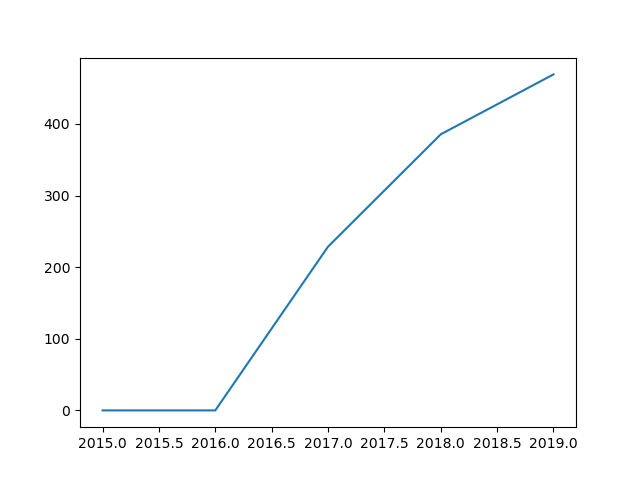
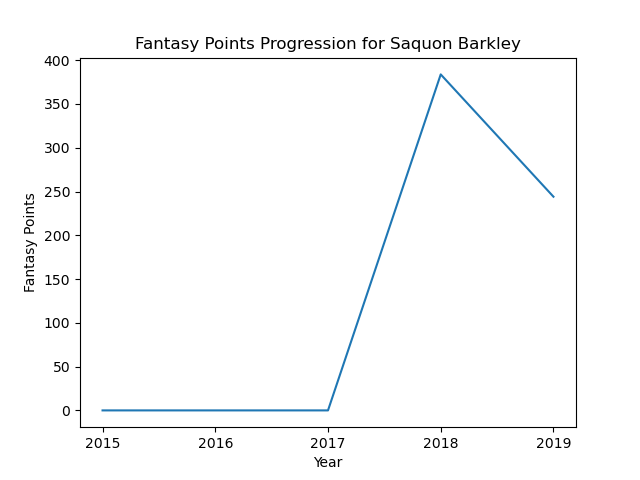
progress on integrating images in page

diff --git a/src/Player.js b/src/Player.js
@@ -6,72 +6,82 @@ function Player(props) {
       <div className = 'row'>
         <p className = 'font-weight-bold'>Clerical Info</p>
       </div>
-      <div className = 'row'>
-        <p>Name: {props.state.player.name}</p>
-      </div>
-      <div className = 'row'>
-        <p>Position: {props.state.player.pos}</p>
-      </div>
-      <div className = 'row'>
-        <p>Age: {props.state.player.age}</p>
-        </div>
       <div className = 'row mb-2'>
-        <p>Team: {props.state.player.team}</p>
+        <div className = 'col'>
+          <p>Name: {props.state.player.name}</p>
+        </div>
+        <div className = 'col'>
+          <p>Position: {props.state.player.pos}</p>
+        </div>
+        <div className = 'col'>
+          <p>Age: {props.state.player.age}</p>
+          </div>
+        <div className = 'col'>
+          <p>Team: {props.state.player.team}</p>
+        </div>
       </div>
 
       <div className = 'row'>
         <p className = 'font-weight-bold'>Game Stats (2019)</p>
       </div>
-      <div className = 'row'>
-        <p>Fantasy Points: {props.state.player.fp}</p>
-      </div>
-      <div className = 'row'>
-        <p>Games: {props.state.player.g}</p>
-      </div>
       <div className = 'row mb-2'>
-        <p>Games Started: {props.state.player.gs}</p>
+        <div className = 'col'>
+          <p>Fantasy Points: {props.state.player.fp}</p>
+        </div>
+        <div className = 'col'>
+          <p>Games: {props.state.player.g}</p>
+        </div>
+        <div className = 'col'>
+          <p>Games Started: {props.state.player.gs}</p>
+        </div>
       </div>
 
       <div className = 'row'>
         <p className = 'font-weight-bold'>Passing Info (2019)</p>
       </div>
-      <div className = 'row'>
-        <p>Passing Atts: {props.state.player.p_att}</p>
-      </div>
-      <div className = 'row'>
-        <p>Passing Yds: {props.state.player.p_yd}</p>
-      </div>
       <div className = 'row mb-2'>
-        <p>Passing TDs: {props.state.player.p_td}</p>
+        <div className = 'col'>
+          <p>Passing Atts: {props.state.player.p_att}</p>
+        </div>
+        <div className = 'col'>
+          <p>Passing Yds: {props.state.player.p_yd}</p>
+        </div>
+        <div className = 'col'>
+          <p>Passing TDs: {props.state.player.p_td}</p>
+        </div>
       </div>
 
       <div className = 'row'>
         <p className = 'font-weight-bold'>Rushing Info (2019)</p>
       </div>
-      <div className = 'row'>
-        <p>Rushing Att: {props.state.player.ru_att}</p>
-      </div>
-      <div className = 'row'>
-        <p>Rushing Yds: {props.state.player.ru_yd}</p>
-      </div>
       <div className = 'row mb-2'>
-        <p>Rushing TDs: {props.state.player.ru_td}</p>
+        <div className = 'col'>
+          <p>Rushing Att: {props.state.player.ru_att}</p>
+        </div>
+        <div className = 'col'>
+          <p>Rushing Yds: {props.state.player.ru_yd}</p>
+        </div>
+        <div className = 'col'>
+          <p>Rushing TDs: {props.state.player.ru_td}</p>
+        </div>
       </div>
 
       <div className = 'row'>
         <p className = 'font-weight-bold'>Receiving Info (2019)</p>
       </div>
-      <div className = 'row'>
-        <p>Receptions: {props.state.player.rec}</p>
-      </div>
-      <div className = 'row'>
-        <p>Targets: {props.state.player.tgt}</p>
-      </div>
-      <div className = 'row'>
-        <p>Receiving Yds: {props.state.player.re_yd}</p>
-      </div>
-      <div className = 'row'>
-        <p>Receiving TDs: {props.state.player.re_td}</p>
+      <div className = 'row mb-2'>
+        <div className = 'col'>
+          <p>Receptions: {props.state.player.rec}</p>
+        </div>
+        <div className = 'col'>
+          <p>Targets: {props.state.player.tgt}</p>
+        </div>
+        <div className = 'col'>
+          <p>Receiving Yds: {props.state.player.re_yd}</p>
+        </div>
+        <div className = 'col'>
+          <p>Receiving TDs: {props.state.player.re_td}</p>
+        </div>
       </div>
     </div>
   );

diff --git a/src/Images.js b/src/Images.js
@@ -1,0 +1,32 @@
+import React from 'react';
+//import Graph_One from './media/compplayer.png';
+//import Graph_Two from './media/playerptprog.png';
+//import Graph_Three from './media/playerptprog.png';
+
+class Images extends React.Component {
+    render() {
+        var graph_one = require('./media/compplayer.png');
+        var graph_two = require('./media/playerptprog.png');
+        var graph_three = require('./media/playerptprog.png');
+
+        return (
+            <div>
+                <div className = 'container'>
+                    <div className = 'row'>
+                            <div className = 'col-md-4'>
+                                <img class = 'img-fluid' src = {graph_one} alt = 'graph one'></img>
+                            </div>
+                            <div className = 'col-md-4'>
+                                <img class = 'img-fluid' src = {graph_two} alt = 'graph two'></img>
+                            </div>
+                            <div className = 'col-md-4'>
+                                <img class = 'img-fluid' src = {graph_three} alt = 'graph three'></img>
+                            </div>
+                    </div>
+                </div>
+            </div>
+        );
+    }
+}
+
+export default Images;

diff --git a/src/App.js b/src/App.js
@@ -5,12 +5,17 @@ import 'bootstrap/dist/css/bootstrap.min.css';
 import Button from './Button.js';
 import Dropdown from './Dropdown.js'
 import Player from './Player.js';
+import Images from './Images.js';
 
 class App extends React.Component {
   constructor(props) {
     super(props);
 
     this.state = {
+      image_one: null,
+      image_two: null,
+      image_three: null,
+      button_pressed: false,
       selected: null,
       player: {
         name: null,
@@ -73,6 +78,7 @@ class App extends React.Component {
         const n_re_td = response.data.ReceivingTD;
 
         this.setState({
+          //button_pressed: true,
           player: {
             name: n_name,
             pos: n_pos,
@@ -102,7 +108,7 @@ class App extends React.Component {
   }
 
   render() {
-    return(
+    return (
       <div className = "container">
         <div className = "row">
           <div className = "col"></div>
@@ -129,7 +135,11 @@ class App extends React.Component {
             state = {this.state}
           />
         </div>
-
+        <div className = "row mb-2">
+          <Images 
+            state = {this.state}
+          />
+        </div>
       </div>
     );
   }

diff --git a/api/scripts.py b/api/scripts.py
@@ -1,4 +1,8 @@
+import matplotlib
+matplotlib.use('Agg')
+
 import matplotlib.pyplot as plt
+import matplotlib.ticker as mticker
 import pandas as pd
 import json
 
@@ -31,13 +35,30 @@ def player_point_progression(name):
     y = [fp_2015, fp_2016, fp_2017, fp_2018, fp_2019]
 
     plt.plot(x, y)
+    plt.xticks(range(2015, 2020))
+    plt.title('Fantasy Points Progression for ' + name)
+    plt.xlabel('Year')
+    plt.ylabel('Fantasy Points')
 
-    plt.savefig('playerptprog.png')
+    plt.savefig('./../src/media/playerptprog.png')
 
-    print(fp_2019)
-    print(fp_2018)
-    print(fp_2017)
-    print(fp_2016)
-    print(fp_2015)
+    plt.close()
 
-player_point_progression('Christian McCaffrey')
+def compare_player_position(name):
+    players_2019 = pd.read_json('2019.json')
+    position = fp_2019 = (players_2019.loc[players_2019['Player'] == name])['Pos'].values[0]
+
+    for i,j in players_2019.iterrows():
+        if(j['Pos'] == position):
+            att_tgt = j['Tgt'] + j['PassingAtt'] + j['RushingAtt']
+            #x.append(att_tgt)
+            #y.append(j['FantasyPoints'])
+            plt.scatter(att_tgt, j['FantasyPoints'], color = 'blue')
+            if(j['Player'] == name):
+                plt.scatter(att_tgt, j['FantasyPoints'], color = 'yellow')
+            else:
+                plt.scatter(att_tgt, j['FantasyPoints'], color = 'blue')
+
+    plt.savefig('./../src/media/compplayer.png')
+
+    plt.close()

diff --git a/api/api.py b/api/api.py
@@ -2,6 +2,7 @@ import flask
 import json
 from flask import request, jsonify, abort
 from flask_cors import CORS
+from scripts import *
 
 app = flask.Flask(__name__)
 cors = CORS(app, resources={r"/api/*": {"origins": "*"}})
@@ -23,6 +24,11 @@ def get_player(id):
         data = json.load(f)
     if id > 619:
         abort(404)
+    
+    name = data[id]['Player']
+    player_point_progression(name)
+    compare_player_position(name)
+    
     return jsonify(data[id])
 
 # runs application server
